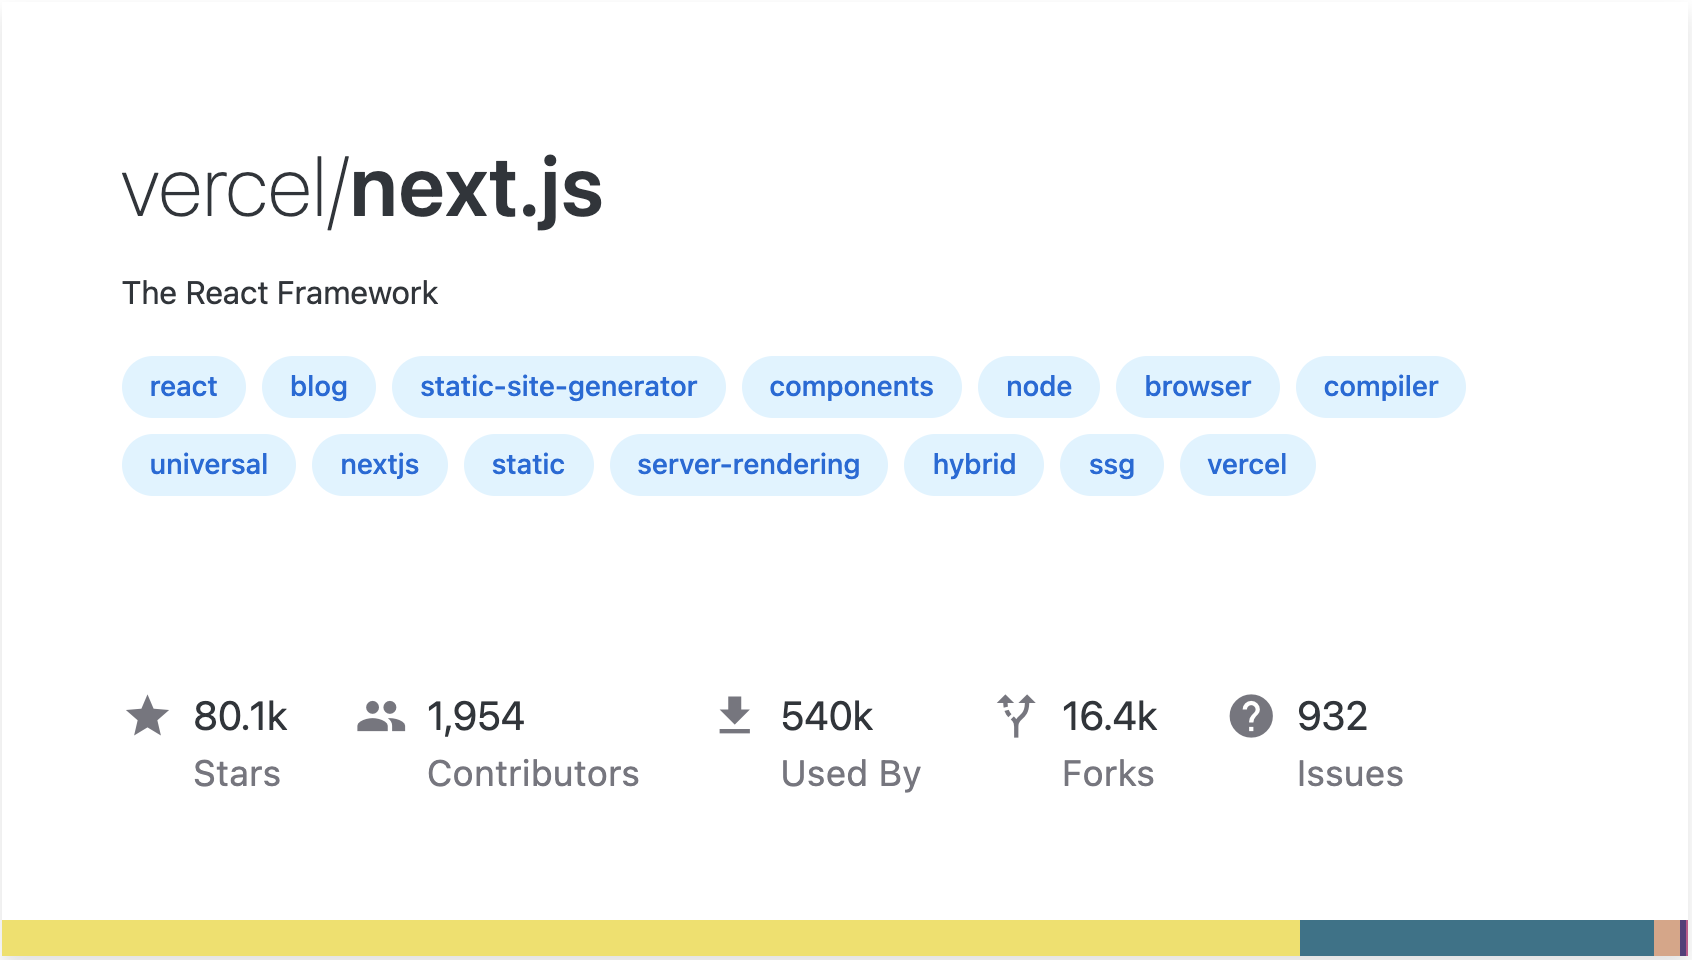
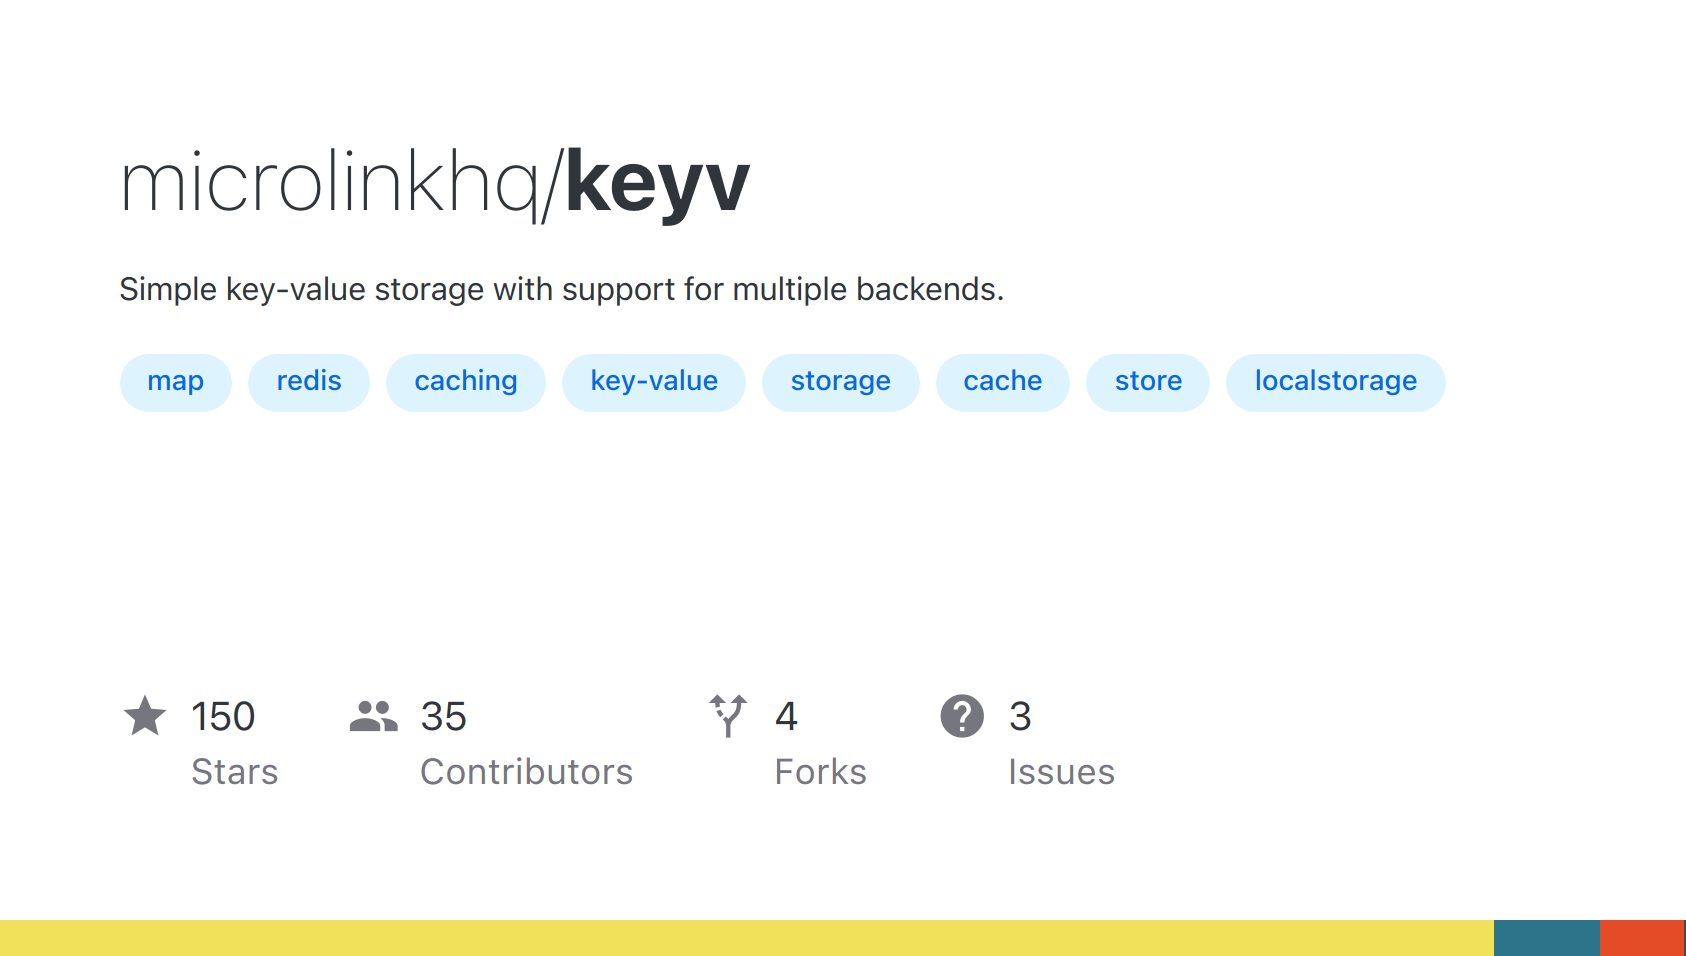
chore: update `githubRepo` preview & url

diff --git a/packages/app/src/components/presets/githubRepo.js b/packages/app/src/components/presets/githubRepo.js
@@ -219,7 +219,7 @@ const code = (
 )
 
 const query = {
-  url: 'https://github.com/vercel/next.js'
+  url: 'https://github.com/microlinkhq/keyv'
 }
 
 export const githubRepo = { name: 'githubRepo', code, query }
